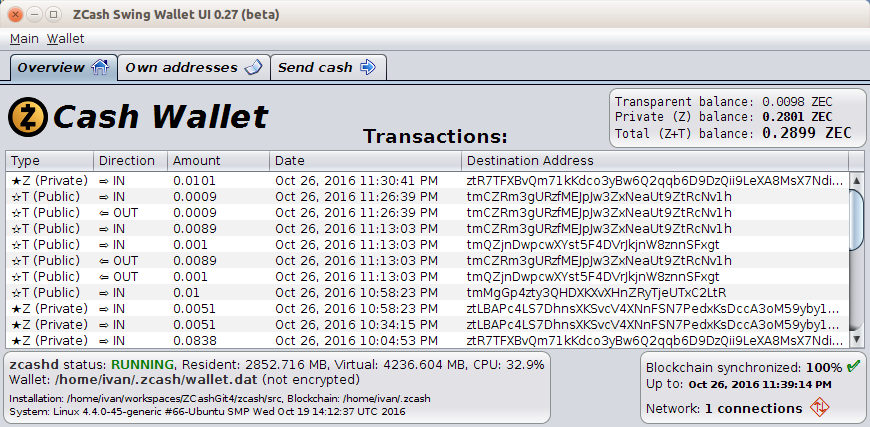
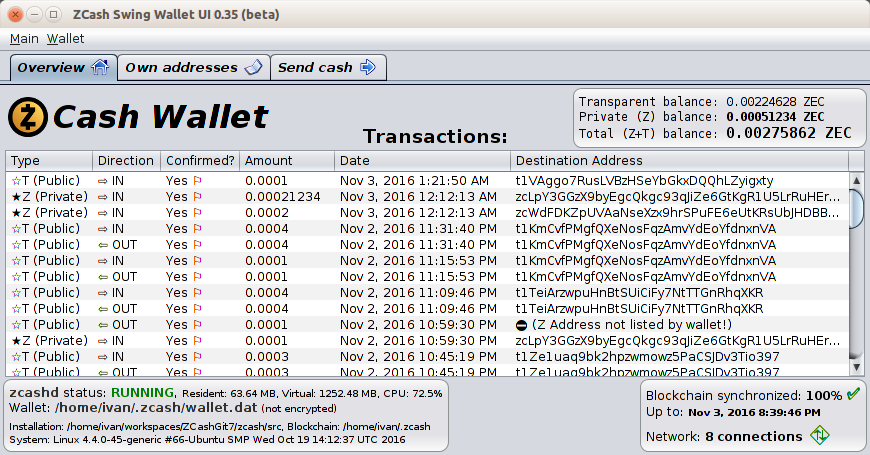
Binary release v0.35-beta

diff --git a/src/java/com/vaklinov/zcashui/ZCashUI.java b/src/java/com/vaklinov/zcashui/ZCashUI.java
@@ -85,7 +85,7 @@ public class ZCashUI
     public ZCashUI()
         throws IOException, InterruptedException, WalletCallException
     {
-        super("ZCash Swing Wallet UI 0.34 (beta)");
+        super("ZCash Swing Wallet UI 0.35 (beta)");
         ClassLoader cl = this.getClass().getClassLoader();
 
         this.setIconImage(new ImageIcon(cl.getResource("images/Z-yellow.orange-logo.png")).getImage());
@@ -135,52 +135,7 @@ public class ZCashUI
 
         // TODO: Temporarily disable encryption until further notice - Oct 24 2016
         menuItemEncrypt.setEnabled(false);
-        
-        // TODO: Temporary warning regarding transactions involving Z addresses
-        // https://github.com/zcash/zcash/issues/1705
-        tabs.addChangeListener(
-        	new ChangeListener() 
-        	{	
-				@Override
-				public void stateChanged(ChangeEvent e) 
-				{
-					JTabbedPane tabs = (JTabbedPane)e.getSource();
-					if (tabs.getSelectedIndex() == 2)
-					{
-		                try
-		                {
-		                    String userDir = OSUtil.getSettingsDirectory();
-		                    File warningFlagFile = new File(userDir + "/warningOnIssue1705Shown.flag");
-		                    if (warningFlagFile.exists())
-		                    {
-		                        return;
-		                    } else
-		                    {
-		                        warningFlagFile.createNewFile();
-		                    }
-
-		                } catch (IOException ioe)
-		                {
-		                    /* TODO: report exceptions to the user */
-		                    ioe.printStackTrace();
-		                }
-		                
-		                JOptionPane.showMessageDialog(
-		                    ZCashUI.this.getRootPane().getParent(),
-		                    "The ZCash 1.0 release has a known issue that affects all wallets. Transactions\n" + 
-		                    "involving Z addresses may stay unconfirmed for long periods of time or not get\n" +
-		                    "confirmed at all. This is expected to be fixed soon.\n\n" +
-		                    "For full details see issue: https://github.com/zcash/zcash/issues/1705\n" +
-		                    "\n" +
-		                    "(This message will be shown only once)",
-		                    "Warning on transactions with Z addresses...", JOptionPane.WARNING_MESSAGE);
-
-					}
-				}
-			}
-        );
-        // END  warning regarding spending mined coins
-                
+                        
         this.setJMenuBar(mb);
 
         // Add listeners etc.

diff --git a/docs/Release_0.35-beta.md b/docs/Release_0.35-beta.md
@@ -1,0 +1,102 @@
+# [ZCash](https://z.cash/) Desktop GUI Wallet - binary release v0.35-beta
+
+This document describes how to install binary release v0.35-beta of the [ZCash](https://z.cash/) 
+Desktop GUI Wallet. This release of the ZCash Desktop GUI Wallet is tested with ZCash version 
+[v1.0.0](https://github.com/zcash/zcash/releases/tag/v1.0.0). Users who encounter issues 
+not listed in the list of known issues and limitations, are welcome to report them in 
+the [issues section](https://github.com/vaklinov/zcash-swing-wallet-ui/issues). 
+
+![Screenshot](https://github.com/vaklinov/zcash-swing-wallet-ui/raw/master/docs/ZCashWalletSmall.png "Main Window")
+
+## Installing and running the Wallet GUI
+
+1. Downloading the wallet
+ 
+   Download file [ZCashSwingWalletUI.jar](https://github.com/vaklinov/zcash-swing-wallet-ui/releases/download/0.35-beta/ZCashSwingWalletUI.jar)
+   and place it in a folder like `~/Downloads`. Then please make the JAR executable with a command like:
+   ```
+   user@ubuntu:~/Downloads$ chmod u+x ./ZCashSwingWalletUI.jar
+   ```
+   
+2. Verifying the download
+
+   **This step is very important!** To verify that the file `ZCashSwingWalletUI.jar` is an authentic release, you
+   need to compute its SHA256 checksum, like this:
+   ```
+   user@ubuntu:~/Downloads$ sha256sum ZCashSwingWalletUI.jar 
+   921fa5b7113ead17882104046f8ad2b6132f678db9d05e0454bf416f0980a210  ZCashSwingWalletUI.jar
+   ```
[1 lines of base64/hex data omitted]
+   **something is wrong and you should discard the downloaded wallet!**
+
+3. Installing the downloaded ZCash GUI wallet
+
+  3.1. If you have built ZCash from source code:
+
+   Assuming you have already built from source code [ZCash](https://z.cash/) in directory `/home/user/zcash/src` (for 
+   example - this is the typical build dir. for ZCash v1.0.0) which contains the command line tools `zcash-cli` 
+   and `zcashd` you need to take the file `ZCashSwingWalletUI.jar` and copy it 
+   to diretcory `/home/user/zcash/src` (the same dir. that contains `zcash-cli` and `zcashd`). Example copy command:
+   ```
+   user@ubuntu:~/Downloads$ cp ./ZCashSwingWalletUI.jar /home/user/zcash/src    
+   ```
+   
+  3.2. If you have installed the ZCash [binary packages](https://github.com/zcash/zcash/wiki/Debian-binary-packages)
+
+   The command line tools `zcash-cli` and `zcashd` are placed by the package installer in:
+   ```
+   /usr/bin/zcash-cli
+   /usr/bin/zcashd
+   ```
+   The ZCash GUI wallet knows how to find them there. You may place the file  `ZCashSwingWalletUI.jar`
+   anywhere in your `/home` directory that you find convenient and start it from there.
+
+4. Running the installed ZCash GUI wallet
+
+   Before running the GUI you need to start zcashd (e.g. `zcashd --daemon`). The wallet GUI is a Java program packaged 
+   as an executable JAR file. It may be run from command line or started from another GUI tool (e.g. file manager). 
+   Assuming you have already installed [ZCash](https://z.cash/) and the GUI Wallet `ZCashSwingWalletUI.jar` in 
+   directory `/home/user/zcash/src` one way to run it from command line is:
+   ```
+   user@ubuntu:~$ java -jar /home/user/zcash/src/ZCashSwingWalletUI.jar
+   ```
+   If you are using Ubuntu (or similar ;) Linux you may instead just use the file manager and 
+   right-click on the `ZCashSwingWalletUI.jar` file and choose the option "Open with OpenJDK 8 Runtime". 
+   This will start the ZCash GUI wallet.
+
+### Donations accepted
+At the present time this project is non-commercial in nature and developed by volunteers. If you find the GUI
+Wallet useful, please consider making a donation for its further development. Your contribution matters! Donations 
+are accepted at ZCash address:
+```
+t1VAggo7RusLVBzHSeYbGkxDQQhLZyigxty
+```
+
+### License
+This program is distributed under an [MIT License](https://github.com/vaklinov/zcash-swing-wallet-ui/raw/master/LICENSE).
+
+### Disclaimer
+This program is not officially endorsed by or associated with the ZCash project and the ZCash company.
+
+THE SOFTWARE IS PROVIDED "AS IS", WITHOUT WARRANTY OF ANY KIND, EXPRESS OR
+IMPLIED, INCLUDING BUT NOT LIMITED TO THE WARRANTIES OF MERCHANTABILITY,
+FITNESS FOR A PARTICULAR PURPOSE AND NONINFRINGEMENT. IN NO EVENT SHALL THE
+AUTHORS OR COPYRIGHT HOLDERS BE LIABLE FOR ANY CLAIM, DAMAGES OR OTHER
+LIABILITY, WHETHER IN AN ACTION OF CONTRACT, TORT OR OTHERWISE, ARISING FROM,
+OUT OF OR IN CONNECTION WITH THE SOFTWARE OR THE USE OR OTHER DEALINGS IN THE
+SOFTWARE.
+
+### Known issues and limitations
+
+1. Limitation: Wallet encryption has been temporarily disabled in ZCash due to stability problems. A corresponding issue 
+[#1552](https://github.com/zcash/zcash/issues/1552) has been opened by the ZCash developers. Correspondingly
+wallet encryption has been temporarily disabled in the ZCash Desktop GUI Wallet.
+1. Issue: the GUI wallet does not work correctly if zcashd is started with a custom data directory, like:
+`zcashd -datadir=/home/data/whatever` This will be fixed in later versions.
+1. Issue: GUI data tables (transactions/addresses etc.) allow copying of data via double click but also allow editing. 
+The latter needs to be disabled. 
+1. Limitation: The list of transactions does not show all outgoing ones (specifically outgoing Z address 
+transactions). A corresponding issue [#1438](https://github.com/zcash/zcash/issues/1438) has been opened 
+for the ZCash developers - soon to be fixed. A fix for the GUI wallet may be expected within 1-2 weeks. 
+1. Limitation: The CPU percentage shown to be taken by zcashd is the average for the entire lifetime of the process. 
+This is not very useful. This will be improved in future versions.

diff --git a/README.md b/README.md
@@ -7,11 +7,6 @@ presents the information in a user-friendly manner.
 
 ![Screenshot](https://github.com/vaklinov/zcash-swing-wallet-ui/raw/master/docs/ZCashWallet.png "Main Window")
 
-### Status update (01 Nov 2016)
-Multiple users with East-European system locales have been affected
-by [Issue #4 - incorrect JSON on sending ZCash](https://github.com/vaklinov/zcash-swing-wallet-ui/issues/4). Affected
-users need to use the latest version **0.34 beta** (build it from source) where it is fixed.
-
 ## Building, installing and running the Wallet GUI
 
 Before installing the Desktop GUI Wallet you need to have ZCash up and running. The following [guide](https://github.com/zcash/zcash/wiki/1.0-User-Guide) 
@@ -26,7 +21,7 @@ quite-user-friendly [installation guide](https://www.cryptocompare.com/wallets/g
 and [usage guide](https://www.cryptocompare.com/wallets/guides/how-to-use-the-zcash-gui-wallet).
 The following video also explains how to [set up the GUI wallet](https://www.youtube.com/watch?v=IDifG4h1bgE). 
 Users who insist on downloading a binary release may instead 
-use [ZCash Desktop GUI Wallet - binary release v0.29-beta](https://github.com/vaklinov/zcash-swing-wallet-ui/blob/master/docs/Release_0.29-beta.md)
+use [ZCash Desktop GUI Wallet - binary release v0.35-beta](https://github.com/vaklinov/zcash-swing-wallet-ui/blob/master/docs/Release_0.35-beta.md)
 
 
 1. Operating system and tools
